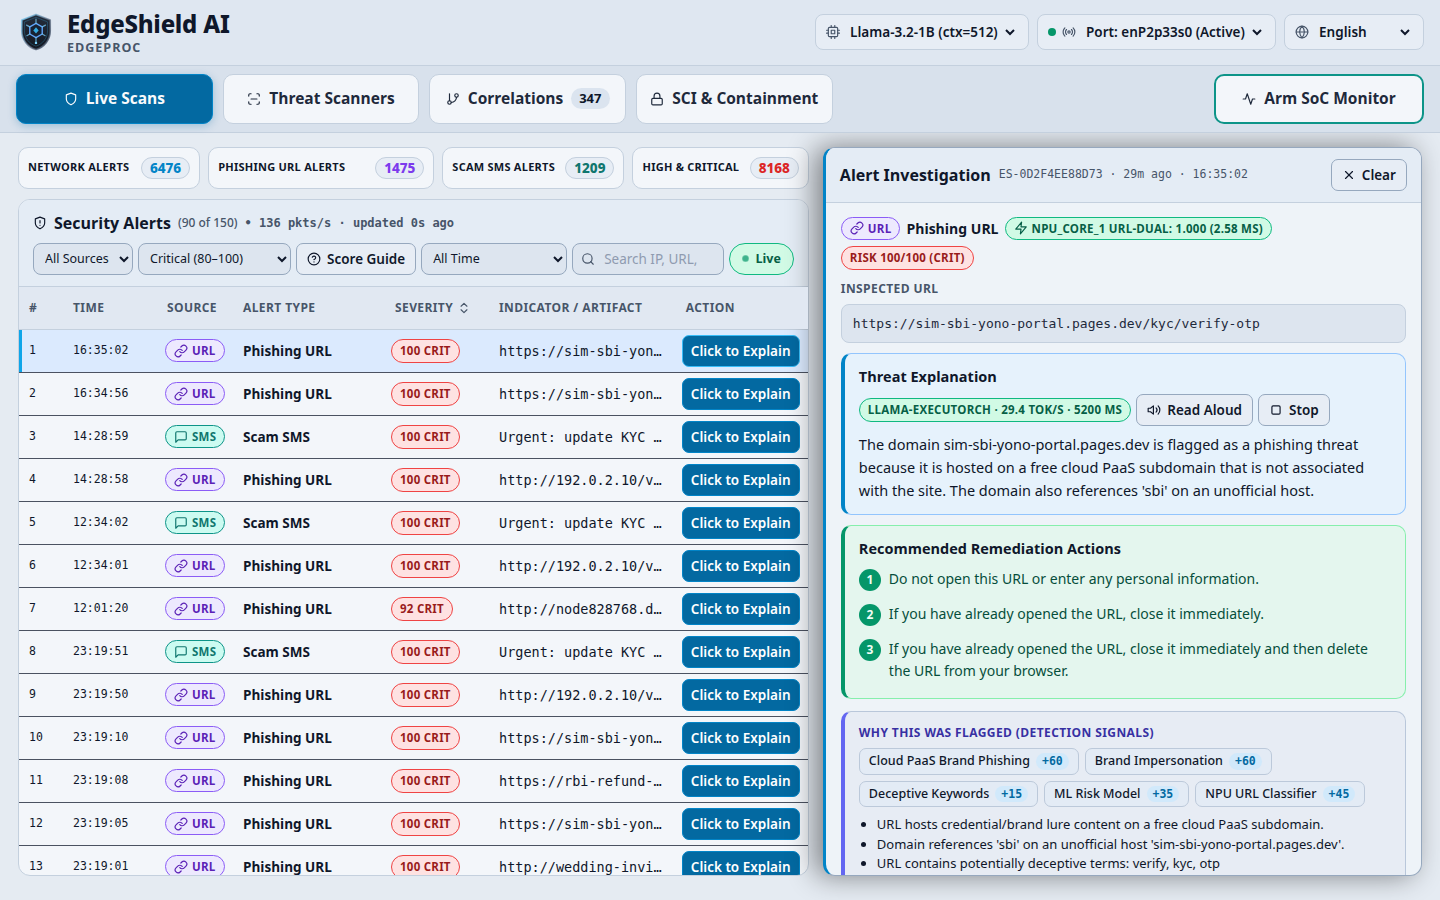
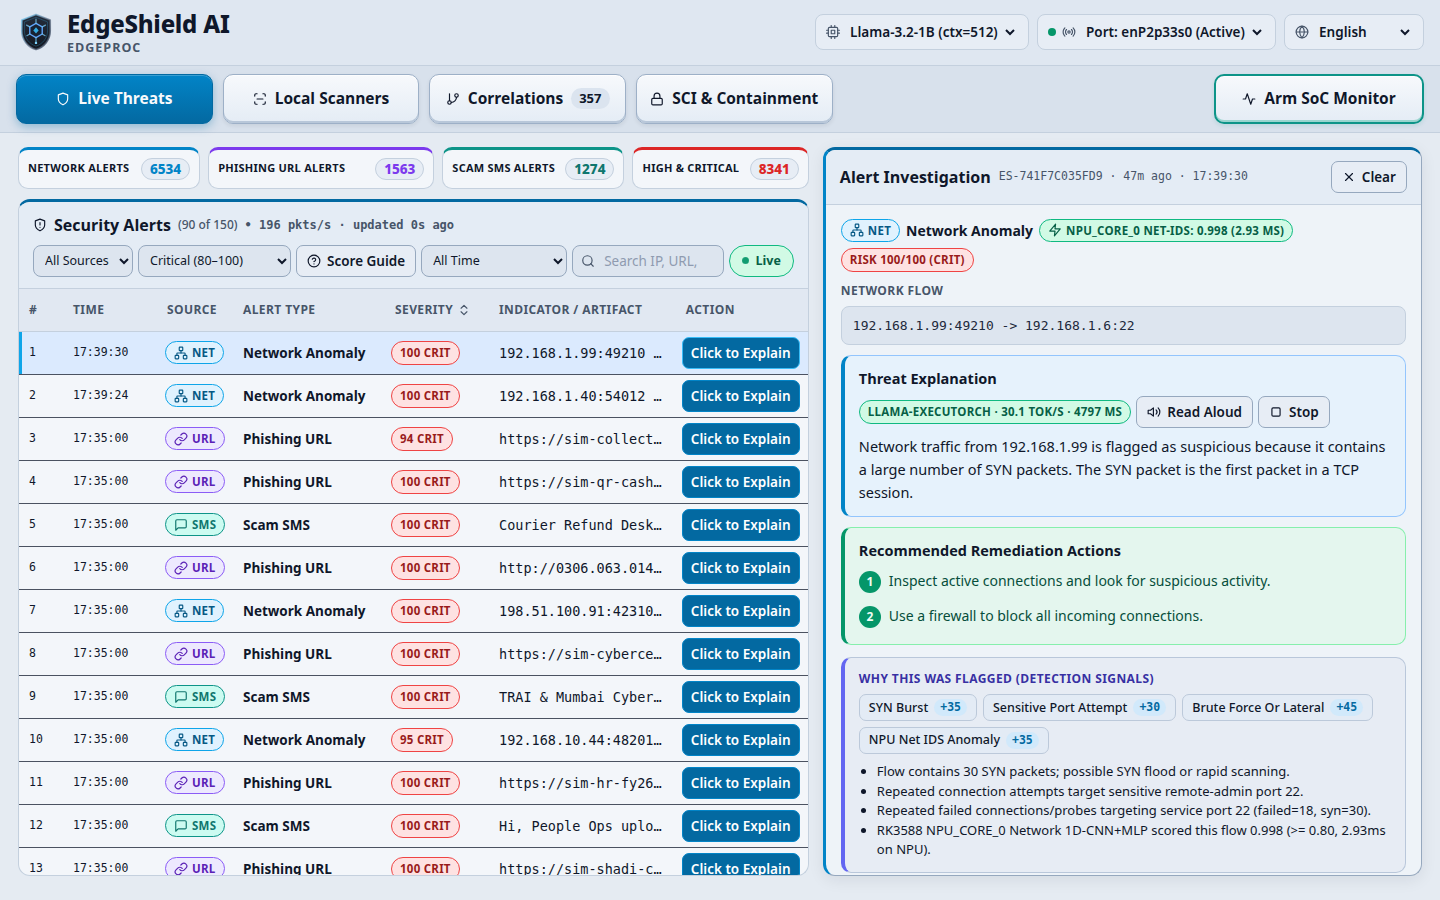
UI Theme Updated

Changed region(s): [[0.0, 0.0933, 1.0, 0.9956], [0.0, 0.0622, 0.1562, 0.1244]]

diff --git a/app/static/index.html b/app/static/index.html
@@ -282,9 +282,10 @@
     }
     .tab {
       position: relative;
-      background: var(--panel);
-      color: #1e293b;
-      border: 1px solid var(--line);
+      background: linear-gradient(180deg, #f7f9fc 0%, #e4ecf5 100%);
+      color: #0f172a;
+      border: 1px solid #9db0c7;
+      box-shadow: 0 2px 4px rgba(15, 23, 42, 0.08), inset 0 -2px 0 #b8c7d9, inset 0 1px 0 rgba(255, 255, 255, 0.7);
       width: 100%;
       min-width: 0;
       min-height: 50px;
@@ -298,41 +299,47 @@
       justify-content: center;
       gap: 8px;
       white-space: nowrap;
-      transition: background 0.14s, color 0.14s, border-color 0.14s, box-shadow 0.14s;
+      transition: background 0.14s, color 0.14s, border-color 0.14s, box-shadow 0.14s, transform 0.12s;
     }
     .tab:hover:not(.active) {
-      background: #e4ecf5;
-      color: #0f172a;
-      border-color: #64748b;
-      box-shadow: inset 0 -3px 0 #0284c7;
+      background: linear-gradient(180deg, #f8fbff 0%, #d8e5f3 100%);
+      color: #0369a1;
+      border-color: #0284c7;
+      transform: translateY(-1px);
+      box-shadow: 0 4px 10px rgba(2, 132, 199, 0.18), inset 0 -2px 0 #0284c7;
+    }
+    .tab:active {
+      transform: translateY(1px);
     }
     .tab.active {
-      background: var(--accent-solid);
+      background: linear-gradient(180deg, #0284c7 0%, #0369a1 100%);
       color: #f8fafc;
-      border-color: var(--accent);
-      box-shadow: 0 2px 8px rgba(3, 105, 161, 0.28);
+      border-color: #0369a1;
+      box-shadow: 0 3px 10px rgba(3, 105, 161, 0.34), inset 0 1px 0 rgba(255, 255, 255, 0.22);
     }
     .tab#tab-soc {
       margin-left: auto;
       flex: 0 0 auto;
       width: auto;
       min-width: 210px;
-      background: var(--panel);
-      color: #1e293b;
+      background: linear-gradient(180deg, #f7f9fc 0%, #e4ecf5 100%);
+      color: #0f172a;
       border: 2px solid #0d9488;
+      box-shadow: 0 2px 4px rgba(13, 148, 136, 0.14), inset 0 -2px 0 #99d5cf, inset 0 1px 0 rgba(255, 255, 255, 0.7);
       padding: 9px 22px;
     }
     .tab#tab-soc:hover:not(.active) {
-      background: #e4ecf5;
-      color: #0f172a;
+      background: linear-gradient(180deg, #f8fbff 0%, #d8e5f3 100%);
+      color: #0f766e;
       border-color: #0f766e;
-      box-shadow: inset 0 -3px 0 #0d9488;
+      transform: translateY(-1px);
+      box-shadow: 0 4px 10px rgba(13, 148, 136, 0.22), inset 0 -2px 0 #0d9488;
     }
     .tab#tab-soc.active {
-      background: var(--accent-solid);
+      background: linear-gradient(180deg, #0284c7 0%, #0369a1 100%);
       color: #f8fafc;
       border: 2px solid #0d9488;
-      box-shadow: 0 2px 8px rgba(3, 105, 161, 0.28);
+      box-shadow: 0 3px 10px rgba(3, 105, 161, 0.34), inset 0 1px 0 rgba(255, 255, 255, 0.22);
     }
     .tab .cnt {
       background: #dbe4ef;
@@ -436,6 +443,20 @@
       flex: 1 1 auto;
       min-height: 0;
     }
+    .net-left-col {
+      display: flex;
+      flex-direction: column;
+      gap: 12px;
+      min-height: 0;
+      min-width: 0;
+    }
+    .net-pcap-pane {
+      flex: 0 0 auto;
+    }
+    .net-devices-pane {
+      flex: 1 1 auto;
+      min-height: 0;
+    }
 
     /* Standard Split-Pane Layouts */
     .split-main {
@@ -457,6 +478,7 @@
     .pane {
       background: var(--panel);
       border: 1px solid var(--line);
+      border-top: 3px solid var(--accent-solid);
       border-radius: 12px;
       display: flex;
       flex-direction: column;
@@ -497,8 +519,9 @@
       background: var(--drawer-bg);
       border: 1px solid var(--line-hi);
       border-left: 3px solid var(--accent);
+      border-top: 3px solid var(--accent-solid);
       border-radius: 12px;
-      box-shadow: -8px 0 28px rgba(0, 0, 0, 0.45);
+      box-shadow: 0 4px 16px rgba(15, 23, 42, 0.08);
       display: flex;
       flex-direction: column;
       min-height: 0;
@@ -558,10 +581,10 @@
       transition: background 0.14s, color 0.14s, border-color 0.14s, box-shadow 0.14s;
     }
     .subtab:hover:not(.active) {
-      background: #d8e2ee;
-      color: #ffffff;
-      border-color: #4b566b;
-      box-shadow: inset 0 -2px 0 #38bdf8;
+      background: #ede9fe;
+      color: #5b21b6;
+      border-color: #7c3aed;
+      box-shadow: inset 0 -2px 0 #7c3aed;
     }
     .subtab.active {
       background: var(--accent-solid);
@@ -1209,9 +1232,63 @@
     .mini-card {
       background: var(--panel3);
       border: 1px solid var(--line);
+      border-top: 3px solid var(--accent-solid);
       border-radius: 10px;
       padding: 11px 12px;
       min-width: 0;
+    }
+    .kpi:nth-child(1) { border-top: 3px solid var(--info); }
+    .kpi:nth-child(2) { border-top: 3px solid #7c3aed; }
+    .kpi:nth-child(3) { border-top: 3px solid #0d9488; }
+    .kpi:nth-child(4) { border-top: 3px solid var(--crit); }
+    /* Distinct System Monitor Theme for Arm SoC Monitor (#soc) — darker header-matched slate-blue */
+    #soc .pane {
+      background: #d2dde9;
+      border-color: #9cb0c9;
+    }
+    #soc .pane-head {
+      background: #c4d2e2;
+      border-bottom-color: #9cb0c9;
+      color: #0f172a;
+    }
+    #soc .mini-card {
+      background: #e1e9f3;
+      border: 1px solid #a9bcd3;
+      border-top: 3px solid #0369a1;
+    }
+    #soc .insp-label {
+      color: #1e3a5f;
+    }
+    #soc .npu-core-badge {
+      display: inline-flex;
+      align-items: center;
+      border-radius: 5px;
+      background: #e0f2fe;
+      color: #075985;
+      border: 1px solid #0ea5e9;
+      font-size: 13.5px;
+      font-weight: 700;
+      padding: 4px 11px;
+      letter-spacing: 0.25px;
+      line-height: 1.3;
+    }
+    #soc .soc-thermal-card {
+      display: flex;
+      flex-direction: column;
+      min-height: 0;
+    }
+    #soc .soc-thermal-scroll {
+      max-height: 215px;
+      overflow-y: auto;
+      border: 1px solid #a9bcd3;
+      border-radius: 8px;
+      background: #dbe4ef;
+    }
+    #soc .soc-thermal-scroll thead th {
+      position: sticky;
+      top: 0;
+      background: #c4d2e2;
+      z-index: 2;
     }
     .metric-kv {
       display: flex;
@@ -2023,11 +2100,11 @@
       <div class="tabs-left">
         <button type="button" class="tab active" role="tab" id="tab-overview" data-tab="overview" aria-controls="overview" aria-selected="true">
           <svg class="ic" aria-hidden="true"><use href="#ic-shield"/></svg>
-          Live Scans
+          Live Threats
         </button>
         <button type="button" class="tab" role="tab" id="tab-scanners" data-tab="scanners" aria-controls="scanners" aria-selected="false">
           <svg class="ic" aria-hidden="true"><use href="#ic-scan"/></svg>
-          Threat Scanners
+          Local Scanners
         </button>
         <button type="button" class="tab" role="tab" id="tab-correlations" data-tab="correlations" aria-controls="correlations" aria-selected="false">
           <svg class="ic" aria-hidden="true"><use href="#ic-git-branch"/></svg>
@@ -2462,35 +2539,41 @@
       <!-- SUB-PANEL 3: NETWORK & PCAP -->
       <div id="scan-net" class="subpanel" role="tabpanel" aria-labelledby="subtab-net">
         <div class="split-even">
-          <div class="pane">
-            <div class="pane-head">
-              <h2><svg class="ic" aria-hidden="true"><use href="#ic-radio"/></svg> PCAP Analyzer &amp; Observed LAN Devices</h2>
+          <div class="net-left-col">
+            <div class="pane net-pcap-pane">
+              <div class="pane-head">
+                <h2><svg class="ic" aria-hidden="true"><use href="#ic-upload"/></svg> PCAP Analyzer</h2>
+              </div>
+              <div class="pane-body">
+                <div class="insp-section">
+                  <label class="insp-label" for="pcapIn">Upload PCAP / PCAPNG Capture</label>
+                  <div style="display:flex;gap:8px;align-items:center">
+                    <input id="pcapIn" type="file" accept=".pcap,.pcapng,.cap" />
+                    <button type="button" class="primary" style="white-space:nowrap" onclick="runPcapScan()">
+                      <svg class="ic" aria-hidden="true"><use href="#ic-upload"/></svg> Analyze PCAP
+                    </button>
+                  </div>
+                  <div id="pcapRes" style="margin-top:8px" aria-live="polite"></div>
+                </div>
+
+                <div class="insp-section" style="margin-bottom:0">
+                  <div class="insp-label">Quick Test Network Flow</div>
+                  <div class="sample-row">
+                    <button type="button" class="chip" onclick="testFlowPreset('c2')">Test C2 Beacon :4444</button>
+                    <button type="button" class="chip" onclick="testFlowPreset('dns')">Test DNS Tunnel :53</button>
+                    <button type="button" class="chip" onclick="testFlowPreset('scan')">Test SSH Brute-Force :22</button>
+                    <button type="button" class="chip" onclick="testFlowPreset('benign')">Test Benign HTTPS :443</button>
+                  </div>
+                  <div id="flowRes" aria-live="polite"></div>
+                </div>
+              </div>
             </div>
-            <div class="pane-body">
-              <div class="insp-section">
-                <label class="insp-label" for="pcapIn">Upload PCAP / PCAPNG Capture</label>
-                <div style="display:flex;gap:8px;align-items:center">
-                  <input id="pcapIn" type="file" accept=".pcap,.pcapng,.cap" />
-                  <button type="button" class="primary" style="white-space:nowrap" onclick="runPcapScan()">
-                    <svg class="ic" aria-hidden="true"><use href="#ic-upload"/></svg> Analyze PCAP
-                  </button>
-                </div>
-                <div id="pcapRes" style="margin-top:8px" aria-live="polite"></div>
-              </div>
 
-              <div class="insp-section">
-                <div class="insp-label">Quick Test Network Flow</div>
-                <div class="sample-row">
-                  <button type="button" class="chip" onclick="testFlowPreset('c2')">Test C2 Beacon :4444</button>
-                  <button type="button" class="chip" onclick="testFlowPreset('dns')">Test DNS Tunnel :53</button>
-                  <button type="button" class="chip" onclick="testFlowPreset('scan')">Test SSH Brute-Force :22</button>
-                  <button type="button" class="chip" onclick="testFlowPreset('benign')">Test Benign HTTPS :443</button>
-                </div>
-                <div id="flowRes" aria-live="polite"></div>
+            <div class="pane net-devices-pane">
+              <div class="pane-head">
+                <h3><svg class="ic" aria-hidden="true"><use href="#ic-radio"/></svg> Observed LAN Devices on <span id="netIfaceLbl">&mdash;</span></h3>
               </div>
-
-              <div class="insp-section">
-                <div class="insp-label">Observed LAN Devices on <span id="netIfaceLbl">&mdash;</span></div>
+              <div class="pane-body flush">
                 <div class="table-wrap">
                   <table>
                     <thead>
@@ -4455,7 +4538,7 @@ function renderWelcomePanel() {
 
       <div class="insp-label" style="margin:14px 0 8px">How to Use EdgeShield AI</div>
       <ol class="welcome-steps">
-        <li><span class="step-num">1</span><span><strong>Monitor or Scan:</strong> Watch live alerts stream in the left table, or switch to <em>Threat Scanners</em> to probe URLs, SMS, or PCAP files offline.</span></li>
+        <li><span class="step-num">1</span><span><strong>Monitor or Scan:</strong> Watch live alerts stream in the left table, or switch to <em>Local Scanners</em> to probe URLs, SMS, or PCAP files offline.</span></li>
         <li><span class="step-num">2</span><span><strong>Click Any Alert:</strong> Select a row or click <em>Explain</em> to inspect detection signals and auto-generate an on-device Llama explanation.</span></li>
         <li><span class="step-num">3</span><span><strong>Remediate Safely:</strong> Follow the numbered remediation steps or trigger reversible <em>Contain (TTL)</em> isolation logged to the SHA-256 SCI ledger.</span></li>
       </ol>
@@ -5412,31 +5495,27 @@ async function loadSoc(isAutoTick = false) {
 
       return `
         <div class="mini-card">
-          <div style="display:flex;justify-content:space-between;align-items:center;gap:6px;flex-wrap:wrap;margin-bottom:6px">
-            <span class="badge ${spec.cls}">${ic(spec.icon)} ${spec.badge}</span>
-            <div style="display:inline-flex;gap:5px;align-items:center;flex-wrap:wrap">
-              <span class="badge ${isReady ? 'b-low' : 'b-medium'}">${esc(precision)} ${isReady ? 'READY' : 'STANDBY'}</span>
-              ${npuFreqMhz ? `<span class="count-pill">${esc(npuFreqMhz)} MHz</span>` : ''}
-            </div>
+          <div style="display:flex;justify-content:flex-start;align-items:center;gap:6px;margin-bottom:8px">
+            <span class="npu-core-badge">${spec.badge}</span>
           </div>
-          <div style="font-weight:700;font-size:13px;color:var(--text);margin-bottom:6px">${esc(spec.title)}</div>
+          <div style="font-weight:700;font-size:15px;color:var(--text);margin-bottom:8px"><span class="muted" style="font-weight:700">MODEL :</span> ${esc(spec.title)}</div>
           <div style="display:flex;justify-content:space-between;align-items:baseline;gap:8px">
-            <span class="muted">Core Load</span>
-            <strong style="font-size:18px;color:${col}">${pct.toFixed(1)}%</strong>
+            <span class="muted" style="font-size:13.5px">Core Load</span>
+            <strong style="font-size:20px;color:${col}">${pct.toFixed(1)}%</strong>
           </div>
           <div class="bar"><i style="width:${Math.min(100, Math.max(0, pct))}%;background:${col}"></i></div>
-          <div style="display:grid;grid-template-columns:repeat(3,minmax(0,1fr));gap:6px;margin-top:8px;padding-top:8px;border-top:1px solid rgba(38,44,54,0.85)">
+          <div style="display:grid;grid-template-columns:repeat(3,minmax(0,1fr));gap:6px;margin-top:10px;padding-top:9px;border-top:1px solid var(--line)">
             <div>
-              <div class="muted" style="font-size:11px">Inferences</div>
-              <strong class="mono" style="font-size:12.5px">${esc(inferences)}</strong>
+              <div class="muted" style="font-size:12.5px">Inferences</div>
+              <strong class="mono" style="font-size:14.5px">${esc(inferences)}</strong>
             </div>
             <div>
-              <div class="muted" style="font-size:11px">Avg Latency</div>
-              <strong class="mono" style="font-size:12.5px">${esc(latTxt)}</strong>
+              <div class="muted" style="font-size:12.5px">Avg Latency</div>
+              <strong class="mono" style="font-size:14.5px">${esc(latTxt)}</strong>
             </div>
             <div>
-              <div class="muted" style="font-size:11px">Test ROC-AUC</div>
-              <strong class="mono" style="font-size:12.5px;color:var(--low)">${esc(aucTxt)}</strong>
+              <div class="muted" style="font-size:12.5px">Test ROC-AUC</div>
+              <strong class="mono" style="font-size:14.5px;color:var(--low)">${esc(aucTxt)}</strong>
             </div>
           </div>
         </div>`;
@@ -5524,7 +5603,7 @@ async function loadSoc(isAutoTick = false) {
       <div class="soc-grid" style="margin-bottom:0">
         <div class="mini-card">
           <div class="insp-label" style="display:flex;align-items:center;gap:6px;margin-bottom:8px">
-            ${ic('zap')} ExecuTorch Llama-3.2-1B (Arm64 CPU &middot; XNNPACK + KleidiAI)
+            ${ic('zap')} ExecuTorch (Arm64 CPU &middot; XNNPACK + KleidiAI)
           </div>
           <div class="metric-kv"><span class="k">Status</span><span class="v">${llamaStatusBadge}</span></div>
           <div class="metric-kv"><span class="k">Model</span><span class="v">${esc(llamaModelLabel)}</span></div>
@@ -5541,12 +5620,12 @@ async function loadSoc(isAutoTick = false) {
           </details>
         </div>
 
-        <div class="mini-card">
+        <div class="mini-card soc-thermal-card">
           <div class="insp-label" style="display:flex;align-items:center;justify-content:space-between;gap:8px;margin-bottom:8px">
             <span style="display:inline-flex;align-items:center;gap:6px">${ic('activity')} RK3588J Thermal Sensors (All Zones)</span>
             <span class="muted">${sensors.length} zone${sensors.length === 1 ? '' : 's'}</span>
           </div>
-          <div class="table-wrap">
+          <div class="table-wrap soc-thermal-scroll">
             <table>
               <thead>
                 <tr>
